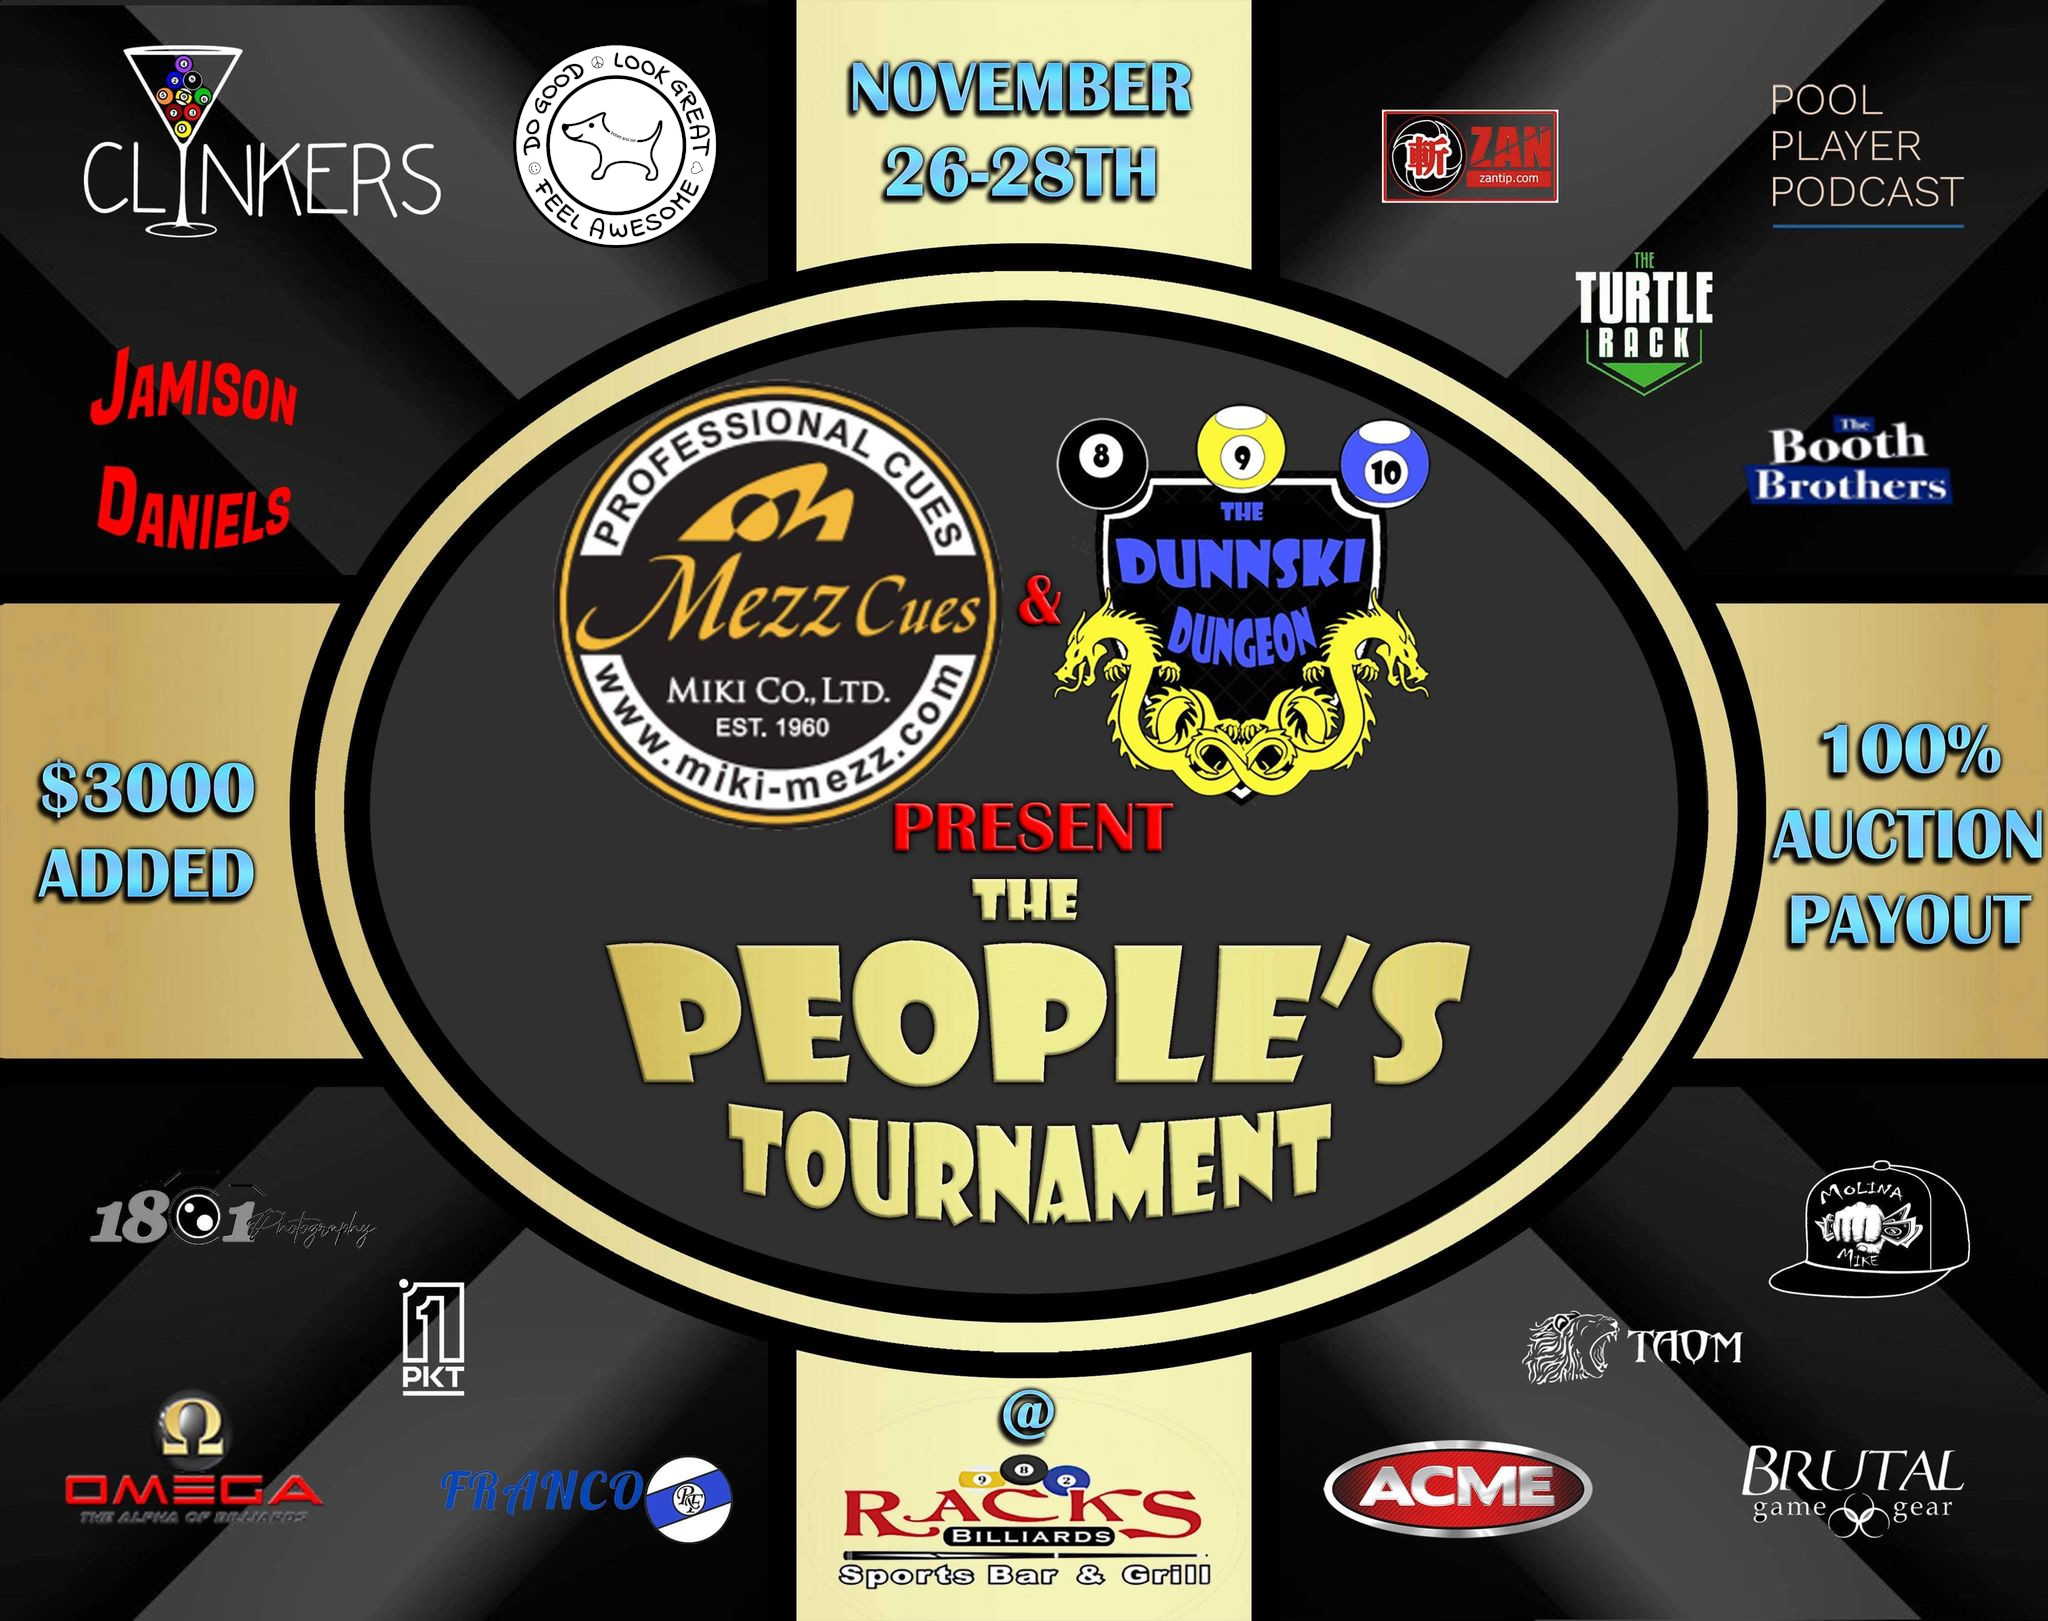
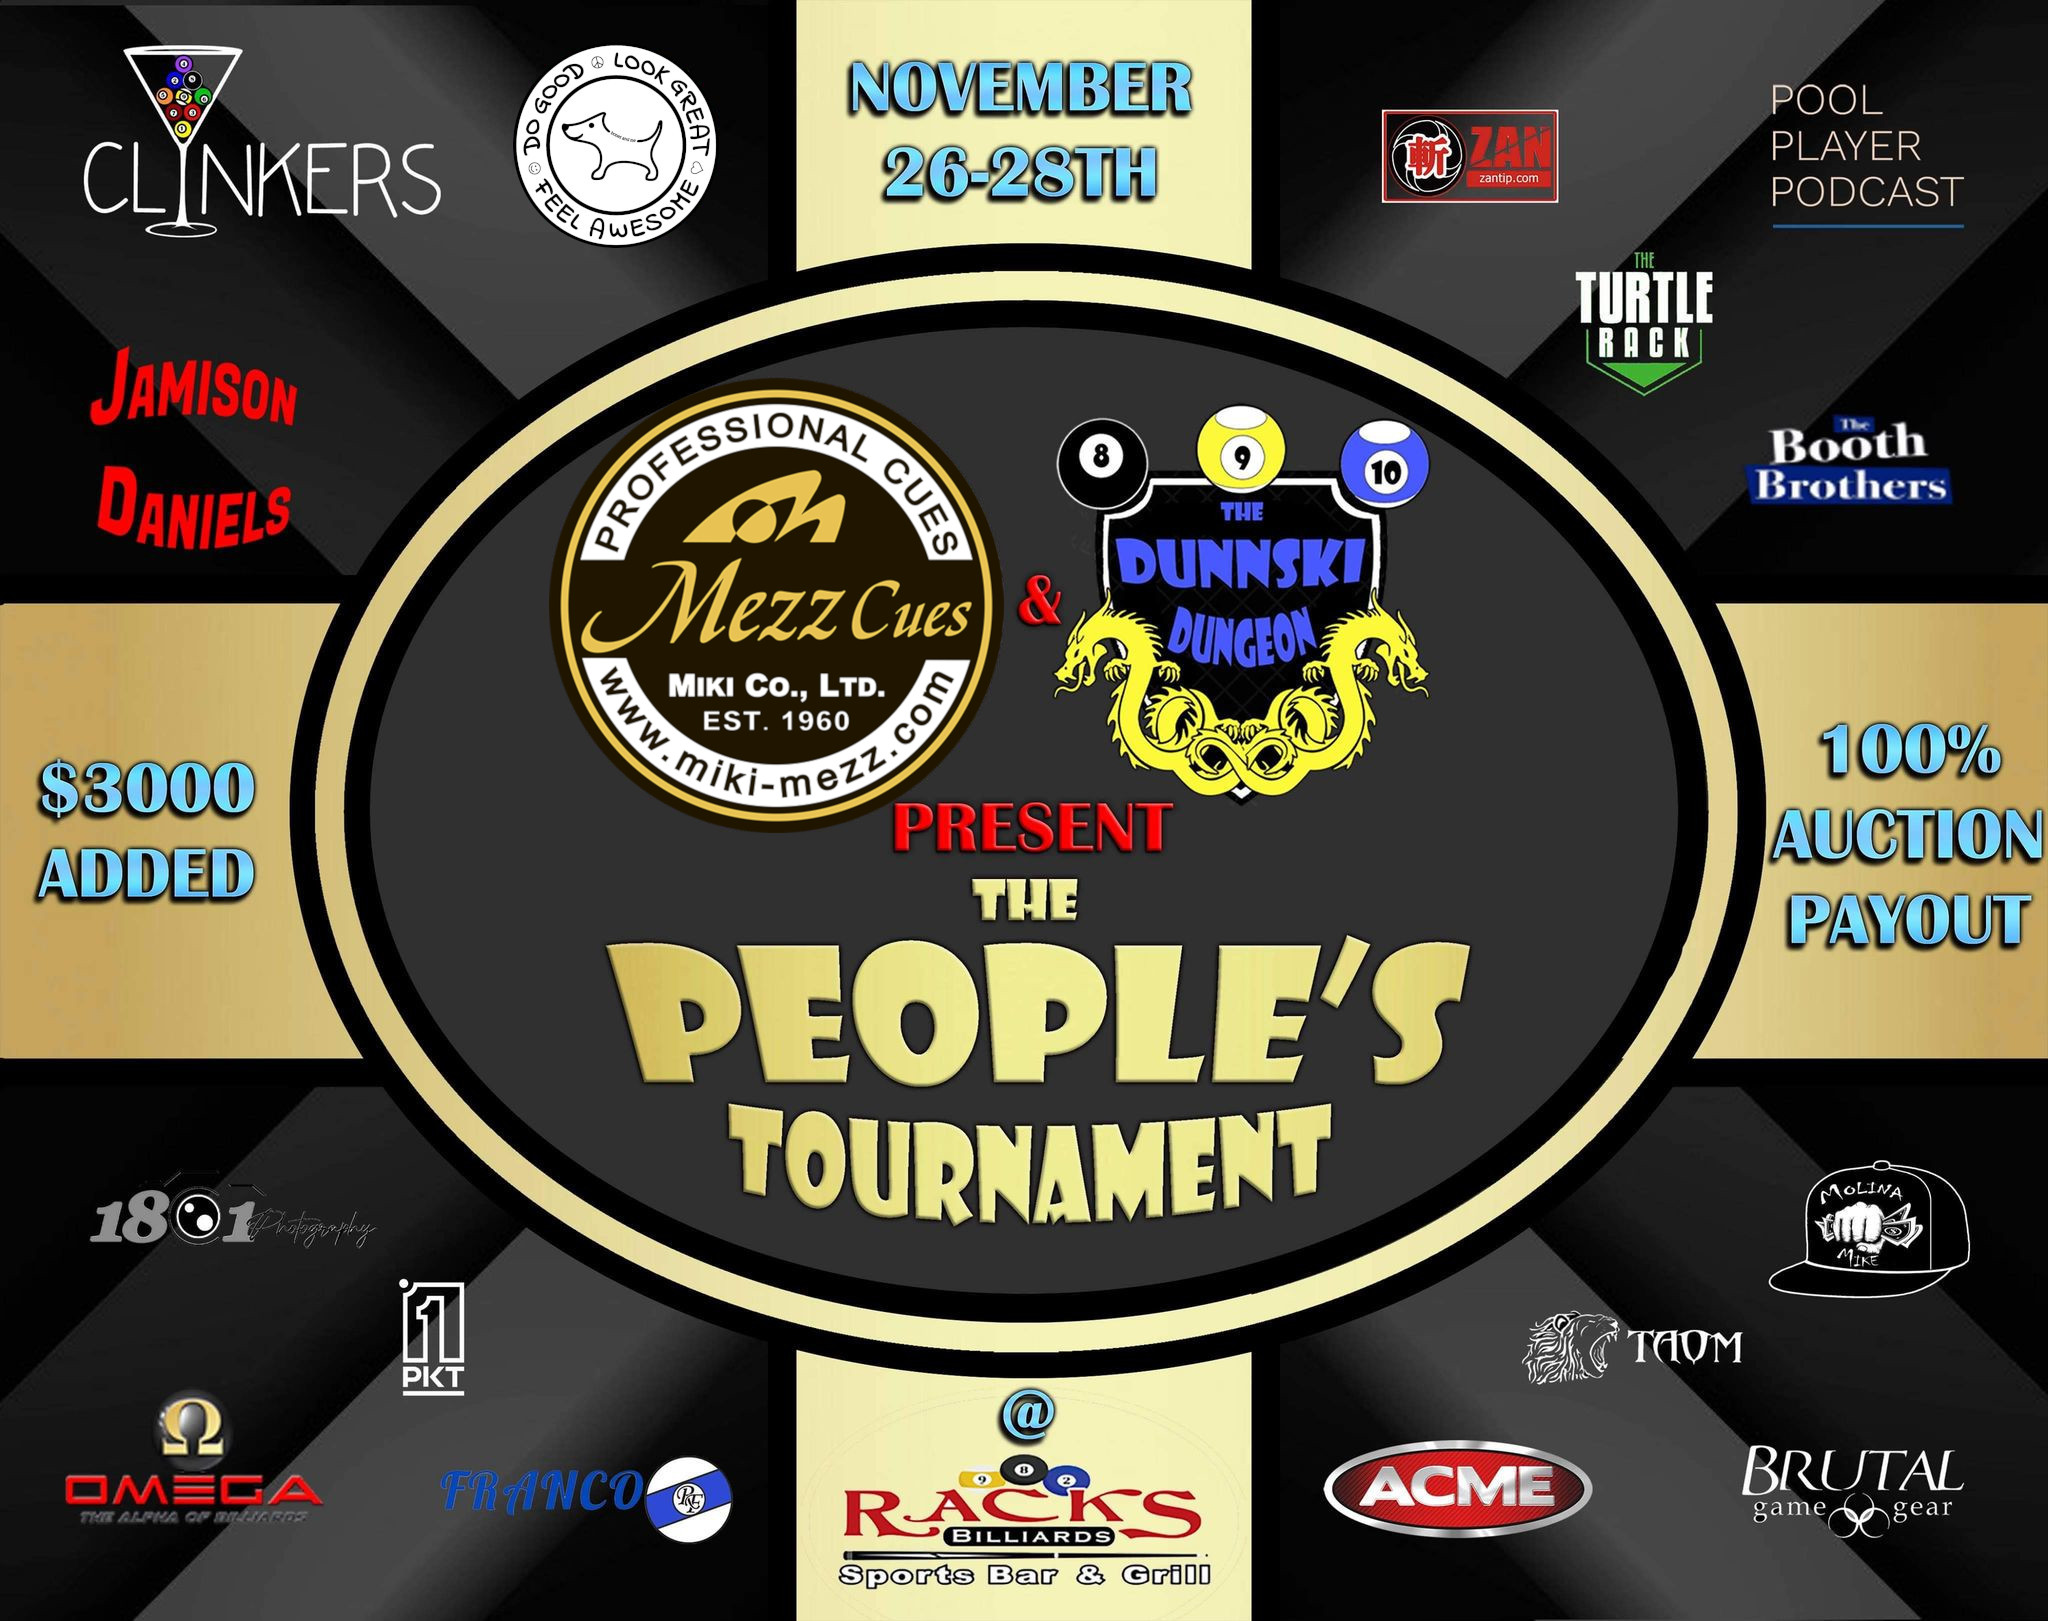
Added Racks to sponsors list.

Changed region(s): [[0.25, 0.2159, 0.5, 0.5244]]

diff --git a/opp/tpt/about.html b/opp/tpt/about.html
@@ -115,6 +115,14 @@
           <li>
             <figure class="sponsor">
               <img
+                src="images/sponsors/racks-billiards.jpg"
+                alt="Racks Billiards"
+              />
+            </figure>
+          </li>
+          <li>
+            <figure class="sponsor">
+              <img
                 src="images/sponsors/zantip.png"
                 alt="Zan tip logo"
               />

diff --git a/opp/tpt/auction.html b/opp/tpt/auction.html
@@ -118,6 +118,14 @@
           <li>
             <figure class="sponsor">
               <img
+                src="images/sponsors/racks-billiards.jpg"
+                alt="Racks Billiards"
+              />
+            </figure>
+          </li>
+          <li>
+            <figure class="sponsor">
+              <img
                 src="images/sponsors/zantip.png"
                 alt="Zan tip logo"
               />

diff --git a/opp/tpt/barbox.html b/opp/tpt/barbox.html
@@ -118,6 +118,14 @@
           <li>
             <figure class="sponsor">
               <img
+                src="images/sponsors/racks-billiards.jpg"
+                alt="Racks Billiards"
+              />
+            </figure>
+          </li>
+          <li>
+            <figure class="sponsor">
+              <img
                 src="images/sponsors/zantip.png"
                 alt="Zan tip logo"
               />

diff --git a/opp/tpt/flyer.html b/opp/tpt/flyer.html
@@ -118,6 +118,14 @@
           <li>
             <figure class="sponsor">
               <img
+                src="images/sponsors/racks-billiards.jpg"
+                alt="Racks Billiards"
+              />
+            </figure>
+          </li>
+          <li>
+            <figure class="sponsor">
+              <img
                 src="images/sponsors/zantip.png"
                 alt="Zan tip logo"
               />

diff --git a/opp/tpt/index.html b/opp/tpt/index.html
@@ -151,6 +151,14 @@
           <li>
             <figure class="sponsor">
               <img
+                src="images/sponsors/racks-billiards.jpg"
+                alt="Racks Billiards"
+              />
+            </figure>
+          </li>
+          <li>
+            <figure class="sponsor">
+              <img
                 src="images/sponsors/zantip.png"
                 alt="Zan tip logo"
               />

diff --git a/opp/tpt/ladies.html b/opp/tpt/ladies.html
@@ -118,6 +118,14 @@
           <li>
             <figure class="sponsor">
               <img
+                src="images/sponsors/racks-billiards.jpg"
+                alt="Racks Billiards"
+              />
+            </figure>
+          </li>
+          <li>
+            <figure class="sponsor">
+              <img
                 src="images/sponsors/zantip.png"
                 alt="Zan tip logo"
               />
